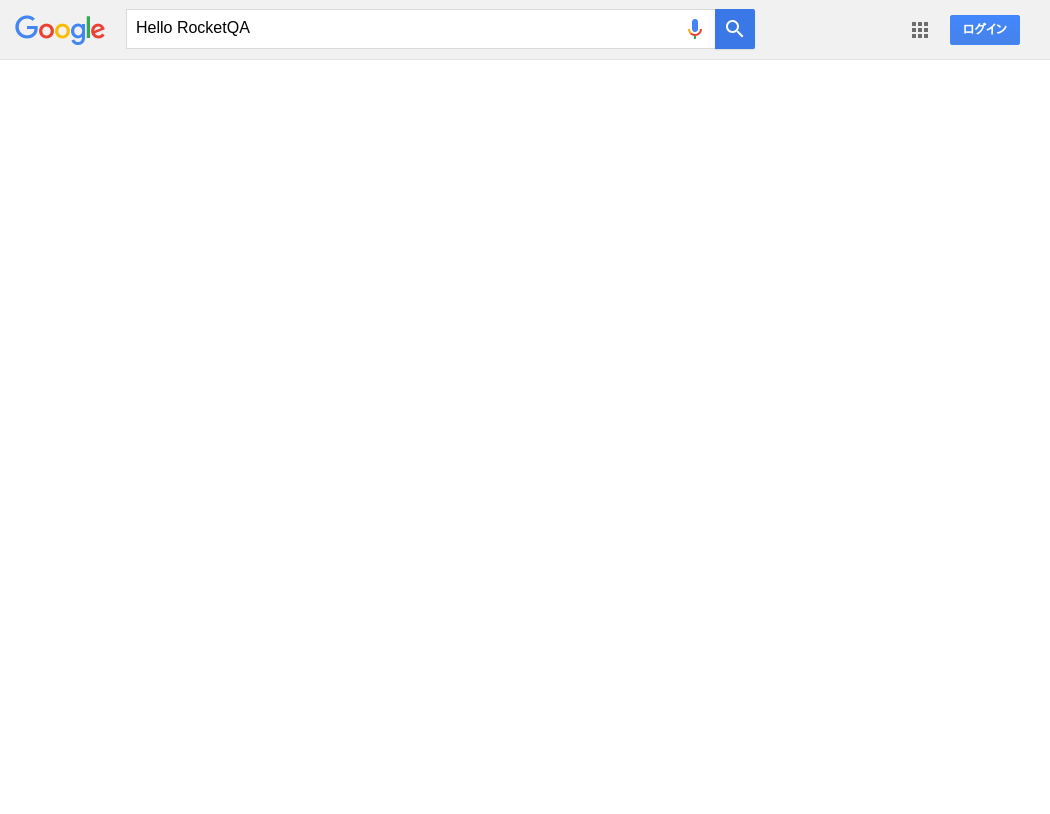
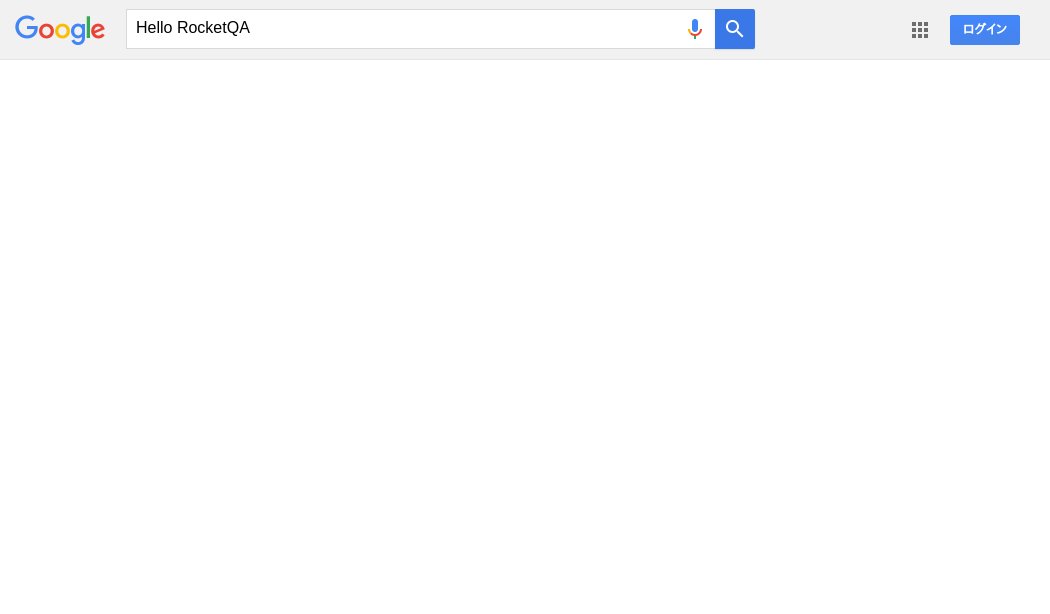
minimal demo done

diff --git a/app/controllers/demo_controller.rb b/app/controllers/demo_controller.rb
@@ -2,10 +2,11 @@ class DemoController < ApplicationController
   def create
     url = params[:url]
     keyword = params[:keyword]
+    keyword = "Hello RocketQA" if keyword == ""
     return redirect_to root_path unless url == 'google'
 
-    require 'headless'
-    headless = Headless.new(dimensions: "1400x900x24", video: { frame_rate: 12, codec: 'libx264', provider: 'ffmpeg' })
+    # headless = Headless.new(dimensions: "1400x960x24", video: { frame_rate: 12, codec: 'libx264', provider: 'ffmpeg' })
+    headless = Headless.new(dimensions: "1400x700x24", video: { codec: 'libx264', provider: 'ffmpeg' })
 
     # headless = Headless.new(dimensions: "1400x900x24")
     headless.start
@@ -17,7 +18,7 @@ class DemoController < ApplicationController
     driver.navigate.to "https://www.google.com"
 
     element = driver.find_element(:name, 'q')
-    element.send_keys(keyword || "Hello RocketQA")
+    element.send_keys keyword
     # element.submit
     driver.find_element(:class, "lsb").click
 
@@ -33,8 +34,6 @@ class DemoController < ApplicationController
 
     headless.destroy
 
-    redirect_to root_path
-  rescue
     redirect_to root_path
   end
 end
